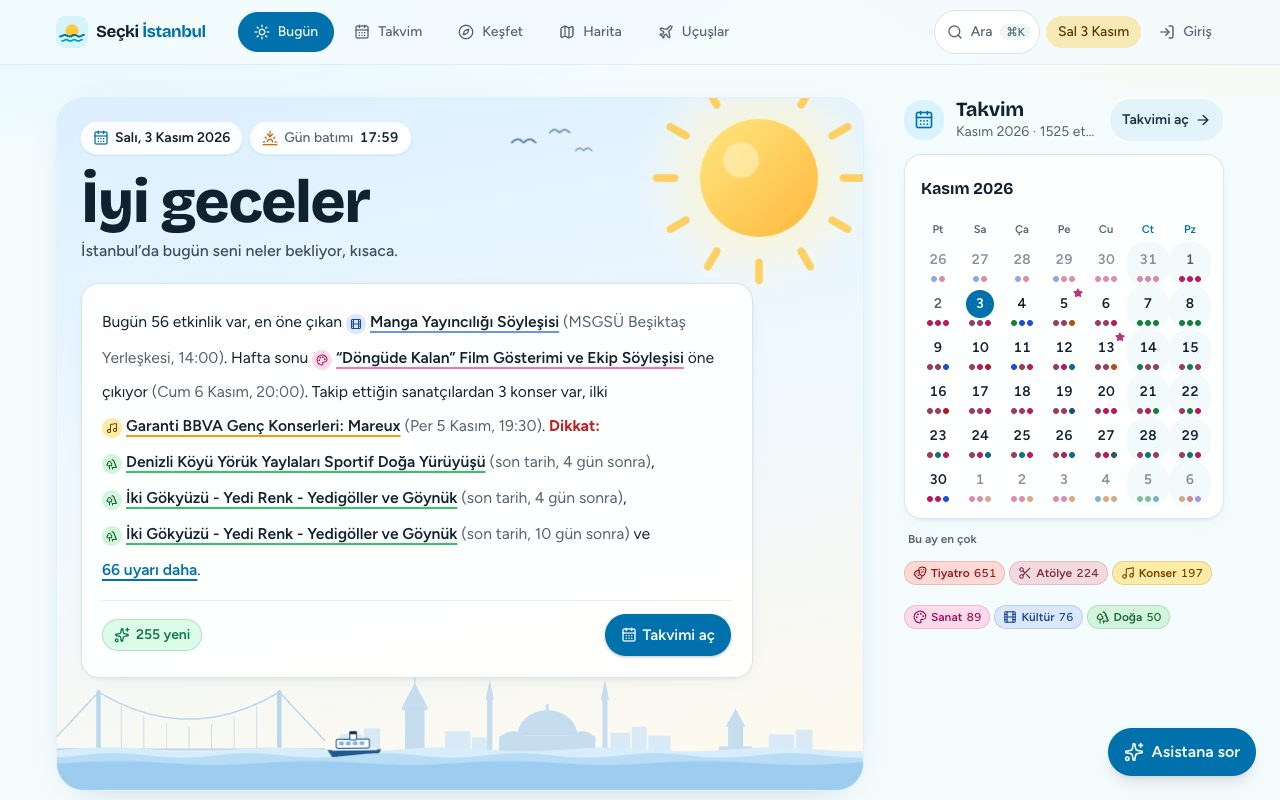
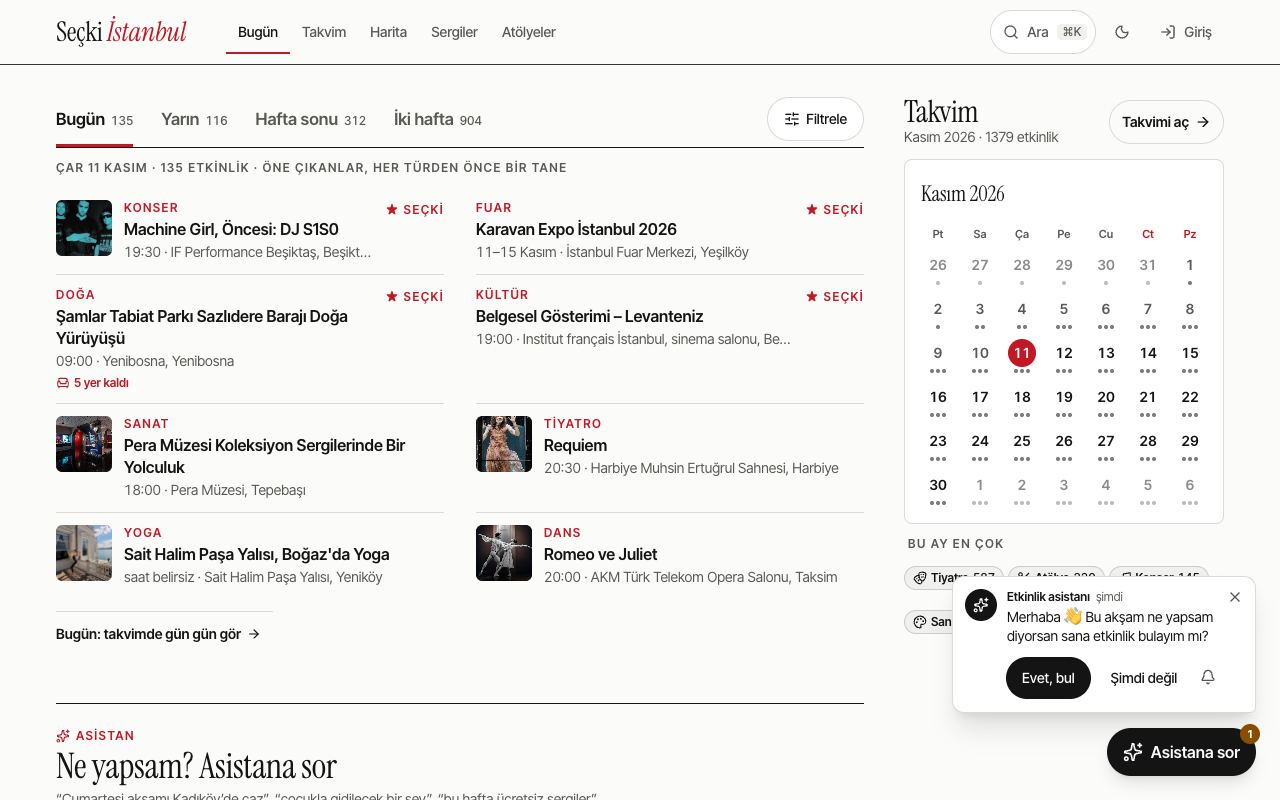
Projects: client sites as files on the desk, fixed links, fresh screenshots
- A stack of folders next to the laptop holds the sites I built for
  others: Kraft Hukuk, Prof. Dr. Mehmet Aksoy, Rudimatu, and this site.
- Film Fırtınası and AcneAway link their own domains instead of
  vercel.app, which doesn't open from Türkiye.
- Seçki mentions its public MCP server and links the code; Noteful
  mentions optional accounts and the AI helper.
- New card for Fırat's AI; This website no longer mentions the lens switch.
- New screenshots for Seçki (current design) and the three client sites.
- The chat assistant's project list knows the new projects too.

diff --git a/src/content.ts b/src/content.ts
@@ -287,10 +287,11 @@ export const projects: Project[] = [
     name: 'Seçki İstanbul',
     year: '2026',
     kind: 'Side project',
-    body: 'Every morning it gathers Istanbul’s concerts, talks, theatre, exhibitions and workshops from over a hundred sources and ranks them. The ranking uses no AI, so every score can be explained. Visitors get a map, an events assistant and an account that re-scores events for their own taste.',
-    stack: ['Python', 'Vue 3', 'Cloudflare Pages and D1', 'GitHub Actions'],
+    body: 'Every morning it gathers Istanbul’s concerts, talks, theatre, exhibitions and workshops from over a hundred sources and ranks them. The ranking uses no AI, so every score can be explained. Visitors get a map, an events assistant and an account that re-scores events for their own taste. AI assistants can search the same events through a public MCP server at secki.istanbul/mcp.',
+    stack: ['Python', 'Vue 3', 'Cloudflare Pages and D1', 'MCP', 'GitHub Actions'],
     link: { label: 'Open the site', href: 'https://secki.istanbul' },
     preview: '/previews/secki.jpg',
+    code: 'https://github.com/mfirataksoy/secki-mcp',
   },
   {
     name: 'Film Fırtınası',
@@ -298,7 +299,7 @@ export const projects: Project[] = [
     kind: 'Side project',
     body: 'A movie discovery site on TMDB data: official trailers, IMDb, TMDB and community ratings side by side, reviews, movie requests with voting, and an admin panel that adds films straight from TMDB.',
     stack: ['Vue 3', 'TypeScript', 'Tailwind', 'Firebase'],
-    link: { label: 'Open the site', href: 'https://filmfirtinasi.vercel.app' },
+    link: { label: 'Open the site', href: 'https://filmfirtinasi.com' },
     preview: '/previews/filmfirtinasi.jpg',
     screen: 'tv',
   },
@@ -306,22 +307,60 @@ export const projects: Project[] = [
     name: 'Noteful',
     year: '2021–2026',
     kind: 'Open source',
-    body: 'Shared notes without accounts: open a page, share the link and write together live. It began in 2021 as NoteWith.Me, when professors used it for online classes. In 2026 I rebuilt it as a realtime editor with password locks encrypted in the browser, read-only links, QR codes and Markdown export.',
-    stack: ['Vue 3', 'Tiptap', 'Yjs', 'Cloudflare Workers'],
+    body: 'Shared notes with no sign-up: open a page, share the link and write together live. It began in 2021 as NoteWith.Me, when professors used it for online classes. In 2026 I rebuilt it as a realtime editor with password locks encrypted in the browser, read-only links, QR codes and Markdown export, plus optional accounts and an AI writing helper.',
+    stack: ['Vue 3', 'Tiptap', 'Yjs', 'Cloudflare Durable Objects', 'Claude Haiku'],
     link: { label: 'Open the app', href: 'https://noteful.me' },
     preview: '/previews/noteful.jpg',
     screen: 'laptop',
     code: 'https://github.com/mfirataksoy/notewith.me',
   },
   {
+    name: 'Kraft Hukuk',
+    year: '2026',
+    kind: 'Client site',
+    body: 'A law firm’s site, moved off Wix: 21 pages rendered to HTML at build time so search engines read them without JavaScript, practice-area pages linked to the firm’s own articles, and a severance and notice-pay calculator that runs entirely in the browser.',
+    stack: ['React 19', 'Vite', 'Cloudflare Pages'],
+    link: { label: 'Open the site', href: 'https://krafthukuk.com' },
+    preview: '/previews/kraft.jpg',
+    screen: 'laptop',
+  },
+  {
+    name: 'Prof. Dr. Mehmet Aksoy',
+    year: '2026',
+    kind: 'Client site',
+    body: 'A cardiology clinic’s site in Turkish, English and Arabic, with Arabic laid out right to left. Every page is prerendered with its own language links for search, and the CV page has a Three.js map of the doctor’s career.',
+    stack: ['Vue 3', 'vue-i18n', 'vite-ssg', 'Three.js'],
+    link: { label: 'Open the site', href: 'https://profdrmehmetaksoy.com' },
+    preview: '/previews/profdr.jpg',
+    screen: 'laptop',
+  },
+  {
+    name: 'Rudimatu',
+    year: '2026',
+    kind: 'Client site',
+    body: 'A yoga and breathwork blog with a writing desk for its author: drafts, scheduling and revisions in a rich editor. The desk runs on blog-core, a package I pulled out of it so other Cloudflare sites can add the same blog with one command.',
+    stack: ['React', 'TipTap', 'Cloudflare Pages Functions', 'D1 and R2'],
+    link: { label: 'Open the site', href: 'https://rudimatu.com' },
+    preview: '/previews/rudimatu.jpg',
+    screen: 'laptop',
+    code: 'https://github.com/mfirataksoy/blog-core',
+  },
+  {
     name: 'This website',
     year: '2026',
     kind: 'Open source',
-    body: 'A Three.js globe that follows my career route as you scroll, a desk you can click around, and a lens switch for customer success and engineering readers.',
+    body: 'A Three.js globe that follows my career route as you scroll, a desk you can click around, and its own page for each role I’m applying for.',
     stack: ['Vue 3', 'Three.js', 'GSAP', 'Vite'],
     link: { label: 'View on GitHub', href: 'https://github.com/mfirataksoy/mfirataksoy.com' },
     preview: '/previews/thissite.jpg',
     screen: 'laptop',
+  },
+  {
+    name: 'Fırat’s AI',
+    year: '2026',
+    kind: 'Side project',
+    body: 'One chat assistant for all my sites. Each site gets its own guide that answers only from what it knows about that project, and visitors can leave me a message that lands in my inbox. One shared backend, and a script tag per site.',
+    stack: ['TypeScript', 'Cloudflare Pages Functions', 'D1', 'Claude Haiku'],
   },
   {
     name: 'Smart grocery device',
@@ -347,7 +386,7 @@ export const projects: Project[] = [
     kind: 'Side project',
     body: 'Upload a selfie and get a clear-skin retouch from an AI image pipeline, with Stripe checkout for credits. Now retired and kept as a showcase.',
     stack: ['Vue 3', 'Firebase', 'Stripe', 'Replicate'],
-    link: { label: 'See the showcase', href: 'https://acneaway.vercel.app' },
+    link: { label: 'See the showcase', href: 'https://acneaway.mfirataksoy.com' },
     preview: '/previews/acneaway.jpg',
     screen: 'phone',
     status: 'Retired',
@@ -365,7 +404,7 @@ export const projects: Project[] = [
   },
 ]
 
-export type DeskKey = 'laptop' | 'tv' | 'calendar' | 'fridge' | 'phone' | 'server'
+export type DeskKey = 'laptop' | 'files' | 'tv' | 'calendar' | 'fridge' | 'phone' | 'server'
 
 export type DeskItem = {
   id: DeskKey
@@ -386,7 +425,17 @@ export const desk: DeskItem[] = [
       eng: 'Side projects are where I try new stacks before I need them at work.',
       cs: 'Side projects keep my hands on the code, so I know what I’m promising customers.',
     },
-    projects: ['Noteful', 'Altyazı Portalı', 'This website'],
+    projects: ['Noteful', 'Altyazı Portalı', 'Fırat’s AI'],
+  },
+  {
+    id: 'files',
+    object: 'Files',
+    title: { eng: 'Sites I built for others', cs: 'Sites I built for others' },
+    body: {
+      eng: 'Websites for a law firm, a cardiology clinic and a yoga writer, plus this one. Each is prerendered for search and runs on Cloudflare.',
+      cs: 'Websites for a law firm, a cardiology clinic and a yoga writer, plus this one. Each puts what visitors came for up front: a phone number, an appointment button, the latest writing.',
+    },
+    projects: ['Kraft Hukuk', 'Prof. Dr. Mehmet Aksoy', 'Rudimatu', 'This website'],
   },
   {
     id: 'tv',

diff --git a/server/chat/knowledge/sites.ts b/server/chat/knowledge/sites.ts
@@ -19,11 +19,14 @@ export const projectsOverview = `
 - Smart grocery device (2022, H-E-B Innovation & Technology): a smart-home device that recognizes products and barcodes in real time and adds what you run out of to your H-E-B account. Jetson Nano, CUDA, TensorFlow, Firebase. No public link.
 - Noteful (formerly NoteWith.Me; first built in 2021, rebuilt in 2026 as a realtime editor): collaborative notes without accounts. Open a page, share the URL and write together live, with optional password lock (end-to-end encrypted in the browser), read-only links, QR codes, a list of your notes, and Markdown/HTML/PDF export and Markdown import. Professors used the original for online classes during the pandemic. Vue 3, Tiptap, Yjs, Cloudflare Workers. https://noteful.me · code: https://github.com/mfirataksoy/notewith.me
 - Film Fırtınası (2026, side project): a movie discovery site on TMDB data with official trailers, IMDb, TMDB and community ratings side by side, reviews, movie requests with voting, and an admin panel that adds films straight from TMDB. Vue 3, TypeScript, Tailwind, Firebase. https://filmfirtinasi.com
-- Seçki İstanbul (2026, side project; started as Istanbul Etkinlik, a personal tool): every morning it collects Istanbul's concerts, talks, theatre, exhibitions and workshops from over a hundred sources and ranks them. The ranking uses no AI, so every score can be explained. Visitors get a map, an events assistant, and accounts that re-score events for their own interests, save events and subscribe to a calendar. Python, Vue 3, Cloudflare Pages Functions and D1, GitHub Actions. https://secki.istanbul
+- Seçki İstanbul (2026, side project; started as Istanbul Etkinlik, a personal tool): every morning it collects Istanbul's concerts, talks, theatre, exhibitions and workshops from over a hundred sources and ranks them. The ranking uses no AI, so every score can be explained. Visitors get a map, an events assistant, and accounts that re-score events for their own interests, save events and subscribe to a calendar. AI assistants can search the same events through a public, read-only MCP server at https://secki.istanbul/mcp (code: https://github.com/mfirataksoy/secki-mcp). Python, Vue 3, Cloudflare Pages Functions and D1, GitHub Actions. https://secki.istanbul
 - Altyazı Portalı (2026, case study): Fırat turned a subtitled video app he built for one person into a platform that generates unlimited sites from one backend: hostname-based site resolution, one-click deploys via the Cloudflare Pages API, per-site data in R2. Vue 3, Express, Cloudflare R2 and Pages, Gemini. Demo: https://altyazi.mfirataksoy.com
 - AcneAway (2025, side project, retired and kept as a showcase): upload a selfie and get a clear-skin retouch from an AI image pipeline, with Stripe checkout for credits. Vue 3, Firebase, Stripe, Replicate. https://acneaway.mfirataksoy.com
 - StickerHub (2021, side project with Bedirhan Celayir, retired): WhatsApp and Telegram bots that sent people stickers on request, and a website built from stickers users sent back to the bot. Vue, Node.js, Firebase, Google Cloud. Farewell page: https://stickerhub.mfirataksoy.com
 - mfirataksoy.com (2026, open source): a Three.js globe that follows his career route as you scroll, a desk you can click around, and pages for customer success, full-stack, backend and frontend readers. Vue 3, Three.js, GSAP, Vite. Code: https://github.com/mfirataksoy/mfirataksoy.com
+- Kraft Hukuk (2026, client site): a law firm's site moved off Wix. 21 pages are rendered to HTML at build time so search engines read them without JavaScript, practice-area pages link to the firm's own articles, and a severance and notice-pay calculator runs entirely in the browser. React 19, Vite, Cloudflare Pages. https://krafthukuk.com
+- Prof. Dr. Mehmet Aksoy (2026, client site): a cardiology clinic's site in Turkish, English and Arabic (right to left). Every page is prerendered with links to its other languages for search, and the CV page has a Three.js map of the doctor's career. Vue 3, vue-i18n, vite-ssg, Three.js. https://profdrmehmetaksoy.com
+- Rudimatu (2026, client site): a yoga and breathwork blog with a writing desk for its author (drafts, scheduling, revisions in a rich editor). The desk runs on blog-core, a package Fırat extracted so other Cloudflare sites can add the same blog with one command. React, TipTap, Cloudflare Pages Functions, D1 and R2. https://rudimatu.com · blog-core code: https://github.com/mfirataksoy/blog-core
 - This chat assistant itself: one Cloudflare Pages Functions backend shared by all of his sites, Claude Haiku answering only from a knowledge file, a contact handoff that delivers messages to Fırat's inbox, and a small script tag on each site.
 `
 

diff --git a/src/desk/Desk.ts b/src/desk/Desk.ts
@@ -160,6 +160,7 @@ export class Desk {
     this.buildLights()
     this.buildDesk()
     this.buildLaptop()
+    this.buildFiles()
     this.buildFridge()
     this.buildPhone()
     this.buildCalendar()
@@ -293,6 +294,52 @@ export class Desk {
     g.position.set(-0.15, 2.01, 0.2)
     g.rotation.y = 0.3
     this.register('laptop', g)
+  }
+
+  // The sites I built for other people, as a small stack of folders next to the laptop.
+  private buildFiles() {
+    const g = new THREE.Group()
+    const W = 0.66, D = 0.88, T = 0.03
+    const covers = ['#c9b07a', '#b39765', '#c9b07a', '#d6c08c']
+    covers.forEach((color, i) => {
+      const f = new THREE.Group()
+      const cover = mat(color, { roughness: 0.85 })
+      const back = box(W, T, D, cover)
+      back.position.y = T / 2
+      f.add(back)
+      // A few sheets peeking out of the open side.
+      const paper = box(W - 0.05, 0.01, D - 0.03, mat(C.ivory, { roughness: 0.9 }))
+      paper.position.set(0.035, T + 0.004, 0.01)
+      f.add(paper)
+      // The tab sticks out of the far edge, at a different spot on each folder.
+      const tab = box(0.16, T, 0.07, cover)
+      tab.position.set(-W / 2 + 0.12 + i * 0.1, T / 2, -D / 2 - 0.03)
+      f.add(tab)
+      f.position.y = i * (T + 0.012)
+      // Fanned a little, so the stack reads as separate folders.
+      f.rotation.y = [0.16, -0.06, 0.1, -0.12][i]
+      f.position.x = [0.03, -0.03, 0.02, -0.01][i]
+      f.position.z = [-0.03, 0.02, -0.01, 0.03][i]
+      g.add(f)
+    })
+    // The top folder is labelled.
+    const label = screenTexture((ctx, w, h) => {
+      ctx.fillStyle = C.ivory
+      ctx.fillRect(0, 0, w, h)
+      ctx.fillStyle = '#16223f'
+      ctx.font = '700 40px "Inter Variable", system-ui, sans-serif'
+      ctx.textAlign = 'center'
+      ctx.textBaseline = 'middle'
+      ctx.fillText('WEBSITES', w / 2, h / 2 + 2)
+    }, 256, 72)
+    const plate = new THREE.Mesh(new THREE.PlaneGeometry(0.44, 0.124), new THREE.MeshStandardMaterial({ map: label, roughness: 0.8 }))
+    plate.rotation.x = -Math.PI / 2
+    const top = g.children[g.children.length - 1]
+    plate.position.set(-0.04, 0.03 + 0.012, 0.2)
+    top.add(plate)
+    g.position.set(-1.38, 2.01, 0.7)
+    g.rotation.y = 0.18
+    this.register('files', g)
   }
 
   // H-E-B's smart grocery device lived with people's groceries, so it gets a

diff --git a/src/components/DeskIcon.vue b/src/components/DeskIcon.vue
@@ -8,6 +8,7 @@ defineProps<{ id: DeskKey; size?: number }>()
   <svg viewBox="0 0 24 24" :width="size ?? 18" :height="size ?? 18" aria-hidden="true">
     <g fill="none" stroke="currentColor" stroke-width="1.6" stroke-linecap="round" stroke-linejoin="round">
       <template v-if="id === 'laptop'"><rect x="4" y="5" width="16" height="10" rx="1.5" /><path d="M2 19h20" /></template>
+      <template v-else-if="id === 'files'"><path d="M3 7a1.5 1.5 0 0 1 1.5-1.5H9l2 2h8.5A1.5 1.5 0 0 1 21 9v9.5a1.5 1.5 0 0 1-1.5 1.5h-15A1.5 1.5 0 0 1 3 18.5z" /><path d="M3 11h18" /></template>
       <template v-else-if="id === 'tv'"><rect x="2.5" y="7" width="19" height="12" rx="1.5" /><path d="M8 3l4 4 4-4M7 22h10M10.5 10.5v4l3.5-2z" /></template>
       <template v-else-if="id === 'calendar'"><rect x="4" y="5" width="16" height="15" rx="1.5" /><path d="M4 10h16M8 3v4M16 3v4" /></template>
       <template v-else-if="id === 'fridge'"><rect x="6" y="2.5" width="12" height="19" rx="1.5" /><path d="M6 9h12M9 5v2M9 12v4" /></template>
